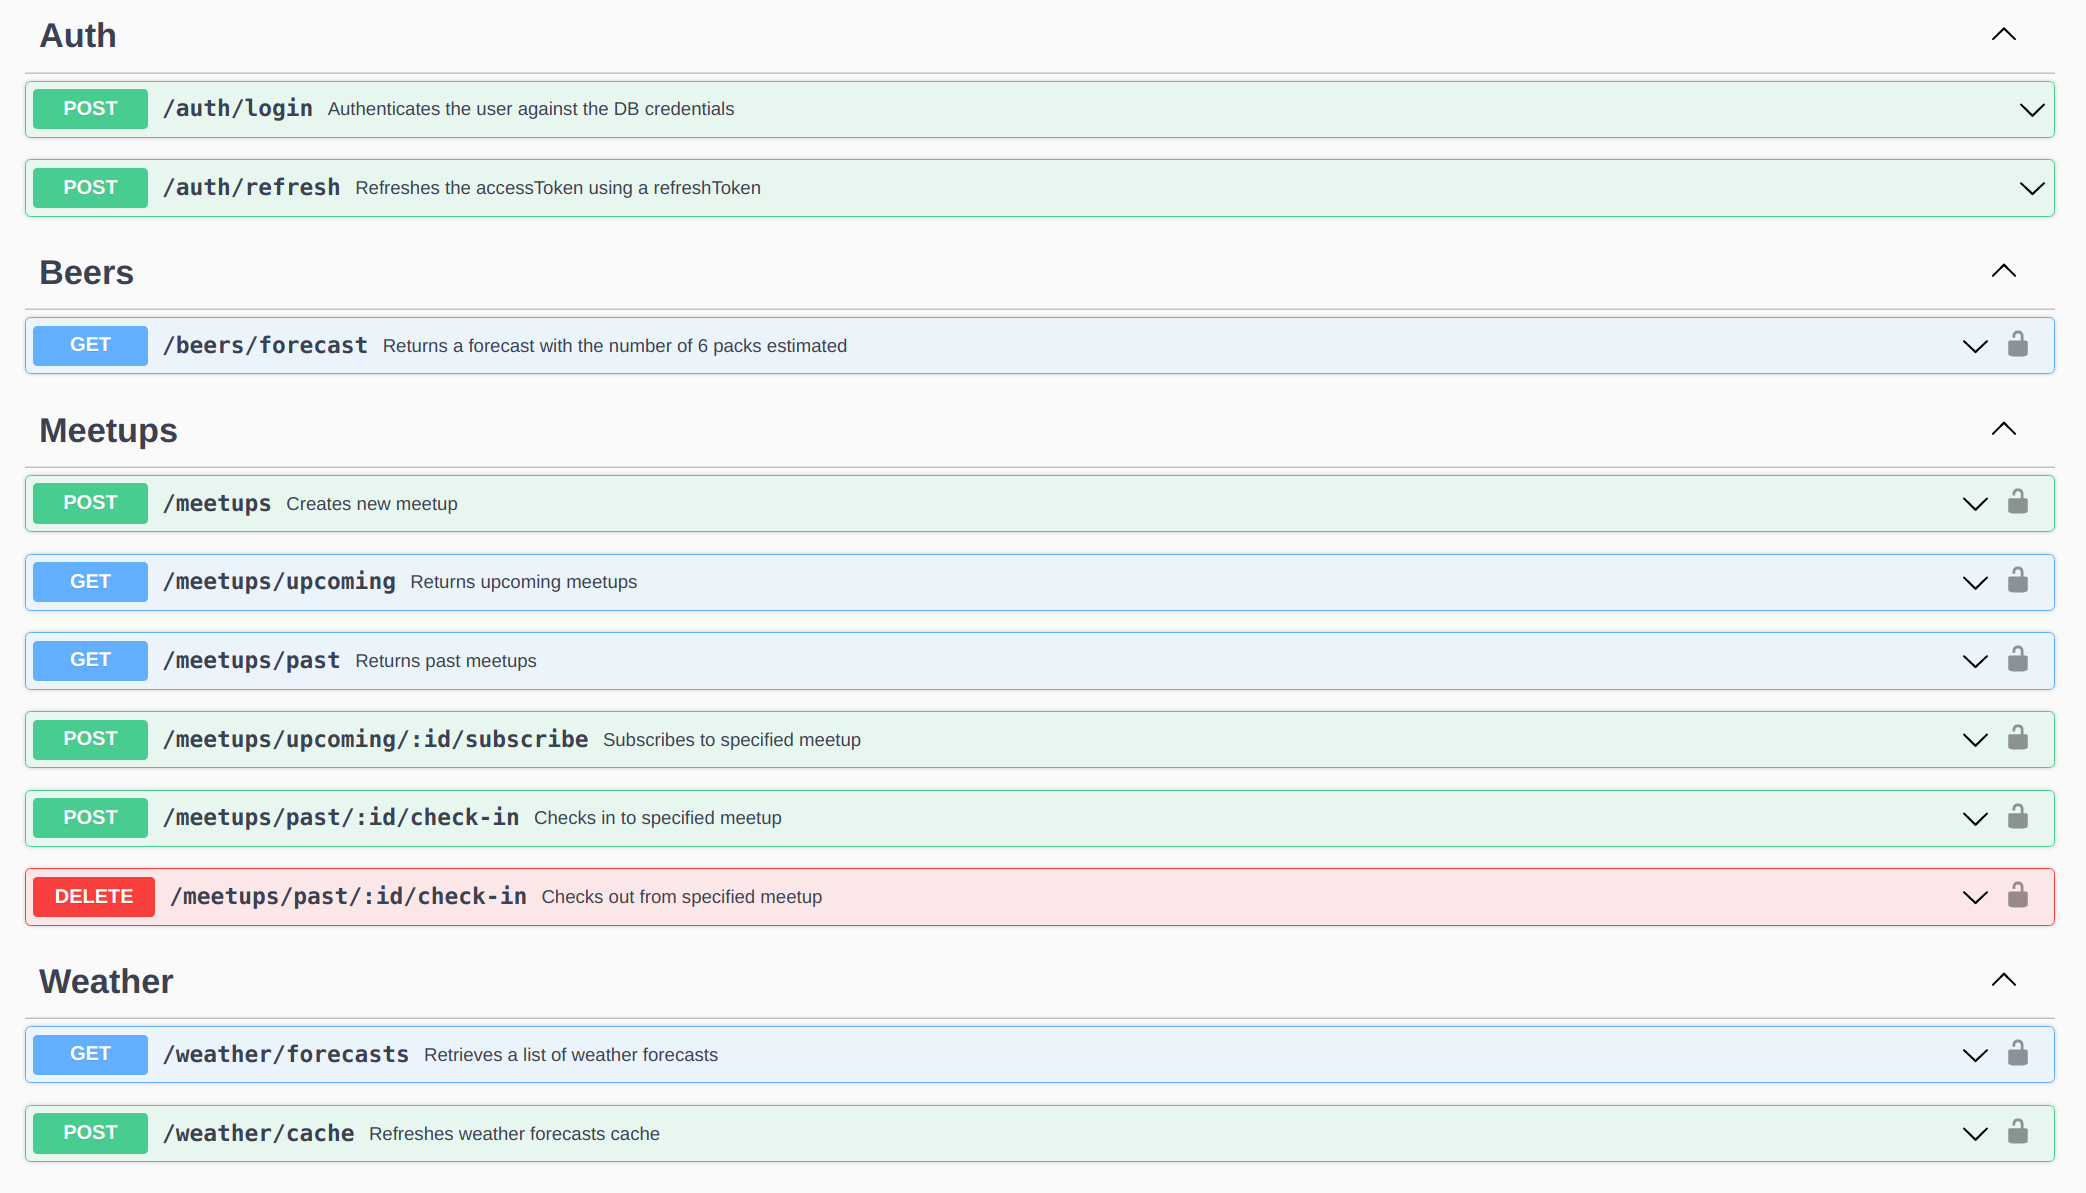
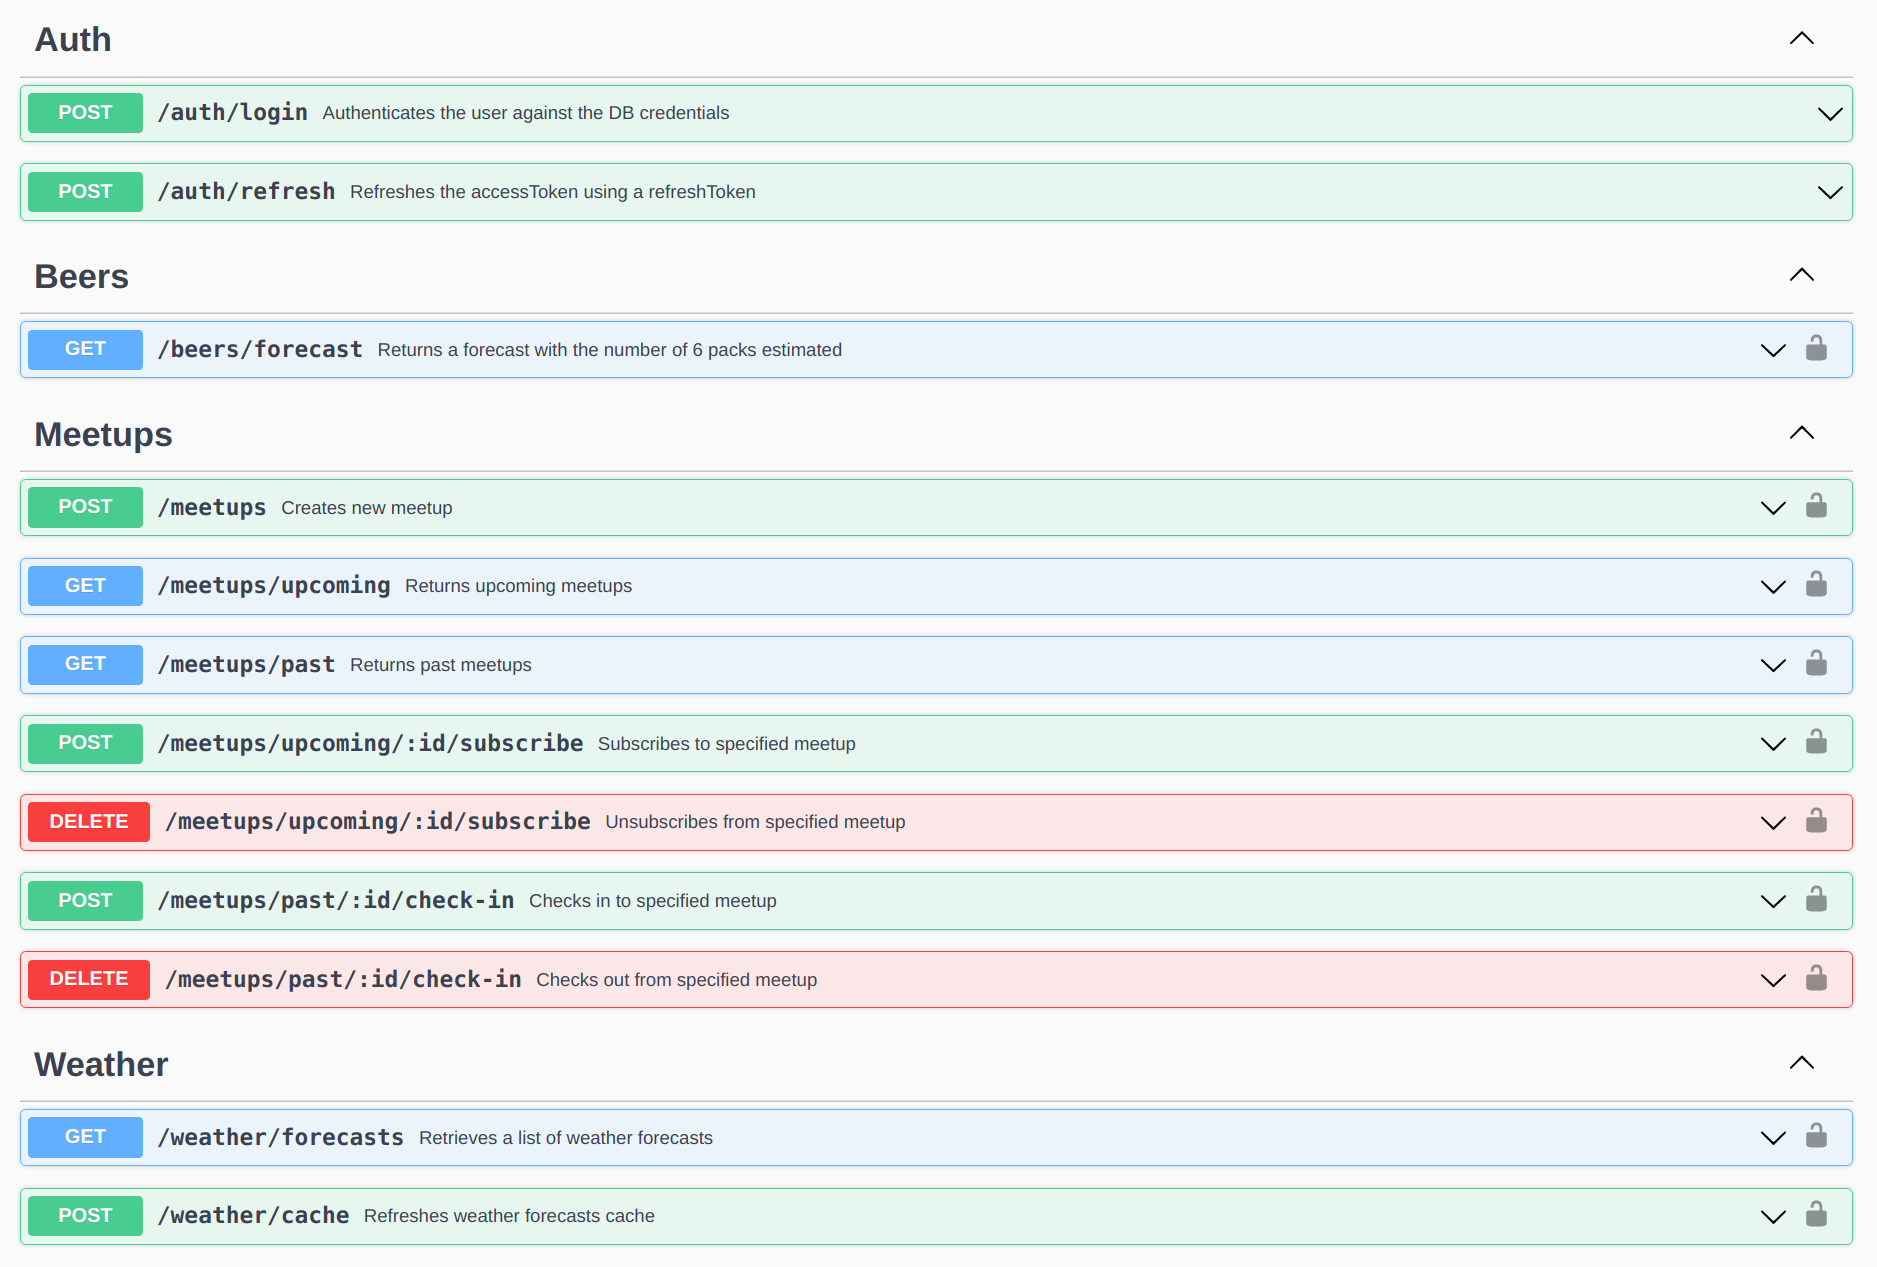
Final changes

Changed region(s): [[0.0, 0.2171, 0.9888, 0.9925], [0.0, 0.0, 0.4017, 0.1861], [0.9579, 0.062, 0.9888, 0.1861]]

diff --git a/backend/src/controllers/meetups-controller.ts b/backend/src/controllers/meetups-controller.ts
@@ -59,12 +59,16 @@ class MeetupsController implements Controller {
       }
       
       const meetupAttributes = req.body as MeetupAttributes;
-      const forecast = await this.weatherService.getForecast(meetupAttributes.date);
+      try {
+        const forecast = await this.weatherService.getForecast(meetupAttributes.date);
       
-      if (forecast) {
-        meetupAttributes.tempInCelsius = forecast.temp;
-        meetupAttributes.estimatedBeerPacks = 
-          this.beerService.getNumBeerPacks(forecast.temp, meetupAttributes.numPeople);
+        if (forecast) {
+          meetupAttributes.tempInCelsius = forecast.temp;
+          meetupAttributes.estimatedBeerPacks = 
+            this.beerService.getNumBeerPacks(forecast.temp, meetupAttributes.numPeople);
+        }
+      } catch(err) {
+        console.log("Weather data not found, creating without forecasts...");
       }
 
       const meetup = await Meetup.create({
@@ -233,21 +237,21 @@ class MeetupsController implements Controller {
   /**
    * @swagger
    * /meetups/upcoming/:id/subscribe:
-   * delete:
-   *   summary: Unsubscribes from specified meetup
-   *   tags:
-   *     - Meetups
-   *   responses:
-   *     '200':
-   *       description: "Unsubscribe successful"
-   *       content:
-   *         application/json:
-   *           schema:
-   *             $ref: '#/components/schemas/Meetup'
-   *     '400':
-   *       description: "Bad request"
-   *     '401':
-   *       description: "Unauthorized"
+   *  delete:
+   *    summary: Unsubscribes from specified meetup
+   *    tags:
+   *      - Meetups
+   *    responses:
+   *      '200':
+   *        description: "Unsubscribe successful"
+   *        content:
+   *          application/json:
+   *            schema:
+   *              $ref: '#/components/schemas/Meetup'
+   *      '400':
+   *        description: "Bad request"
+   *      '401':
+   *        description: "Unauthorized"
    */
   private async unsubscribeFromMeetup(req: Request, res: Response): Promise<void> {
     try {

diff --git a/frontend/src/services/ApiService.ts b/frontend/src/services/ApiService.ts
@@ -9,7 +9,7 @@ export default class ApiService {
     this.apiUrl = process.env.REACT_APP_API_URL;
   }
 
-  public async getWeatherForecasts(jwt?: string): Promise<WeatherForecast[]> {
+  public async getWeatherForecasts(jwt?: string): Promise<WeatherForecast[] | null> {
     const endpointUri = "/weather/forecasts";
 
     const options: RequestInit = {
@@ -18,15 +18,18 @@ export default class ApiService {
         Authorization: "Bearer " + jwt,
       }
     }
-
-    const response = await fetch(`${this.apiUrl}${endpointUri}`, options);
-    const data = await response.json();
     
+    let data: WeatherForecast[];
+    const response = await fetch(`${this.apiUrl}${endpointUri}`, options);
+    if (response.status === 500) {
+      return null;
+    }
+    data = await response.json();
     return data;
   }
 
 
-  public async refreshWeatherCache(jwt?: string): Promise<WeatherForecast[]> {
+  public async refreshWeatherCache(jwt?: string): Promise<WeatherForecast[] | null> {
     const endpointUri = "/weather/cache";
 
     const options: RequestInit = {
@@ -37,6 +40,9 @@ export default class ApiService {
     }
 
     const response = await fetch(`${this.apiUrl}${endpointUri}`, options);
+    if (response.status === 500) {
+      return null;
+    }
     const data = await response.json();
     
     return data;

diff --git a/frontend/src/components/WeatherForecastsList/WeatherForecastsList.tsx b/frontend/src/components/WeatherForecastsList/WeatherForecastsList.tsx
@@ -8,13 +8,18 @@ type WeatherForecastsListProps = {
 }
 
 const WeatherForecastsList = ({ apiService }: WeatherForecastsListProps) =>{
-  const [weatherForecasts, setWeatherForecasts] = useState<WeatherForecast[] | null>([]);
+  const [weatherForecasts, setWeatherForecasts] = useState<WeatherForecast[] | null>(null);
+  const [error, setError] = useState<string>("");
   const [showCacheRefreshedNotification, setShowCacheRefreshedNotification] = useState<boolean>(false);
   const auth = useAuth();
 
   useEffect(() => {
     apiService.getWeatherForecasts(auth && auth.accessToken).then((forecasts) => {
-      setWeatherForecasts(forecasts);
+      if (forecasts) {
+        setWeatherForecasts(forecasts);
+      } else {
+        setError("Could not fetch forecasts");
+      }
     });
   }, []);
   
@@ -52,7 +57,7 @@ const WeatherForecastsList = ({ apiService }: WeatherForecastsListProps) =>{
                   <div><span className="font-bold">Temp: </span>{forecast.temp} °C</div>
               </li>
             })
-          :""}
+          : error}
         </ul>
       </div>
     </>

diff --git a/backend/src/app.ts b/backend/src/app.ts
@@ -17,12 +17,14 @@ class App {
     this.app = express();
     this.port = port;
 
-    this.initializeSwagger();
-    this.initializeControllers(controllers);
     this.initializeMiddlewares();
+    this.initializeControllers(controllers);
   }
 
   private initializeMiddlewares() {
+    // IMPORTANT: always initialize swagger first
+    this.initializeSwagger();
+
     // We're not configuring cors now, but a real app should have it
     this.app.use(cors());
     this.app.use(cookieParser())
@@ -46,7 +48,7 @@ class App {
         openapi: '3.0.0',
         info: {
           title: "Meetups Santander Challenge API",
-          description: "API docs for the Meetups challenge",
+          description: "Docs for the Meetups API",
           version: "1.0.0"
         },
         contact: {

diff --git a/backend/src/controllers/weather-controller.ts b/backend/src/controllers/weather-controller.ts
@@ -50,7 +50,13 @@ class WeatherController implements Controller {
         return;
       }
 
-      const weatherForecasts: WeatherForecast[] = await this.weatherService.getForecasts();
+      let weatherForecasts: WeatherForecast[];
+      try {
+        weatherForecasts = await this.weatherService.getForecasts();
+      } catch(err) {
+        res.status(500).json("Could not fetch weather forecasts");
+        return;
+      }
 
       res.status(200).json(weatherForecasts);
     } catch (err) {

diff --git a/backend/src/services/weather-service.ts b/backend/src/services/weather-service.ts
@@ -33,7 +33,11 @@ export default class WeatherService {
       forecasts = JSON.parse(forecastsBuffer.toString());
     } catch (err) {
       console.log("Cache not found, refreshing...");
-      forecasts = await this.refreshCache();
+      try {
+        forecasts = await this.refreshCache();
+      } catch(err) {
+        throw new Error("Error fetching weather data, is API key ok?")
+      }
     }
     
     return forecasts;

diff --git a/README.MD b/README.MD
@@ -1,4 +1,4 @@
-# Birras - Challenge Santander Tecnología
+# Meetups Challenge - Santander Tecnología
 
 Este proyecto consiste en una aplicación que permite:
 - Como usuario:
@@ -12,6 +12,14 @@ Este proyecto consiste en una aplicación que permite:
   - Crear meetups, especificando nombre, fecha, y cantidad estimada de personas.
   - Obtener, si es posible, una cantidad estimada de cajas de birra necesarias para aprovisionar la meetup.
 
+# Screens de la app
+
+![](./misc/screen_login.png)
+
+![](./misc/screen_admin.png)
+
+![](./misc/screen_home.png)
+
 # Detalles técnicos del proyecto
 
 - La app consiste en un frontend web y un server de backend.
@@ -21,6 +29,20 @@ Este proyecto consiste en una aplicación que permite:
 - La permanencia se logró a través de una base de datos de SQLite, a través del ORM [sequelize](https://sequelize.org/).
 - La autenticación y autorización se lograron utilizando JWT (en el backend se implementaron los endpoints y la lógica para usar tokens de acceso y de refresh; por cuestiones de tiempo en el frontend solo se implementó el uso de tokens de acceso)
 - La API se autodocumenta utilizando SwaggerUI. Corriendo el server localmente, se puede acceder a los docs en `http://localhost:5000/api/docs`.
+- Hay unit tests para la lógica del cálculo de cajas de birra. No se llegaron a implementar 
+tests de integration/e2e.
+
+# Instrucciones para correr el backend
+
+Todo esto debe realizarse dentro del directorio `backend/`.
+
+- Copiar el archivo `.env-example`, renombrar la copia a `.env`, y completar con las variables de entorno correspondientes.
+  - Tener en cuenta que se necesita una API key para Weatherbit, sino los pronósticos del clima no van a estar disponibles en la app.
+- Ejecutar el comando `yarn install` en consola para instalar las dependencias del backend.
+- Para correr las migraciones de la base de datos utilizar el comando `npx sequelize db:migrate`.
+- Para seedear la db utilizar el comando `npx sequelize db:seed:all`. Es indispensable seedear la db, ya que de esta forma se generan los dos usuarios de la app.
+- Ejecutar el comando `yarn start` en consola para correr el proyecto localmente. Por defecto, el server local de backend esta en `http://localhost:5000`.
+- Ejecutar `yarn test` para correr los tests unitarios.
 
 # Instrucciones para correr el frontend
 
@@ -29,16 +51,6 @@ Todo esto debe realizarse dentro del directorio `frontend/`.
 - Copiar el archivo `.env-example`, renombrar la copia a `.env`, y completar con las variables de entorno.correspondientes. Por ejemplo, para correr el proyecto localmente con los valores por default, utilizar `http://localhost:5000/api` como URL base de la API.
 - Ejecutar el comando `yarn install` en consola para instalar las dependencias del frontend.
 - Ejecutar el comando `yarn start` en consola para correr el proyecto localmente. Por defecto, el server local de frontend esta en `http://localhost:3000`.
-
-# Instrucciones para correr el backend
-
-Todo esto debe realizarse dentro del directorio `backend/`.
-
-- Copiar el archivo `.env-example`, renombrar la copia a `.env`, y completar con las variables de entorno correspondientes.
-- Ejecutar el comando `yarn install` en consola para instalar las dependencias del backend.
-- Ejecutar el comando `yarn start` en consola para correr el proyecto localmente. Por defecto, el server local de backend esta en `http://localhost:5000`.
-- Para correr las migraciones de la base de datos utilizar el comando `npx sequelize db:migrate`.
-- Para seedear la db utilizar el comando `npx sequelize db:seed:all`. Es indispensable seedear la db, ya que de esta forma se generan los dos usuarios de la app.
 
 # Utilizando la app
 
@@ -60,4 +72,19 @@ Dado que no hay un CRUD de usuarios implementado, los dos usuarios disponibles s
 
 ![](./misc/api-endpoints.png)
 
-## Cosas que quedaron pendientes/para mejorar
+## Posibles esquemas de CI/CD
+
+Acá hay muchas opciones... yo haría algo parecido a lo siguiente: tener un pipeline por componente del sistema (en este caso sería uno para front y otro para back). Cada pipeline tiene 3 stages: `testing`, `dev`, y `prod`. 
+
+- `testing` corre los tests unitarios (o que no requieran de varios servicios) y se ejecuta con pushes a cualquier branch del repo. 
+- `dev` se ejecuta en pushes a la development branch, deploya recursos en el entorno de desarrollo, y corre tests de integración y e2e. 
+- Finalmente, `prod` se ejecuta con pushes a la main branch, deploya en prod y también corre tests de integration/e2e.
+
+Esto es algo muy general, devops no es mi área de expertise (aunque es interesante).
+
+# Cosas que quedaron pendientes/para mejorar
+- El tema notificaciones hubiese sido interesante verlo. La idea para hacer esto era que fuese en tiempo real, teniendo una conexión stateful con el server (con WebSockets), y pusheando notificaciones al cliente de esa forma. Despues se podría haber implementado algo con la [Notifications API](https://developer.mozilla.org/en-US/docs/Web/API/notification) para mostrarlas a nivel browser. Hay servicios tipo [Pusher](https://pusher.com/) que creo hacen cosas similares.
+- Habría que implementar la lógica para los refresh tokens en el frontend. How solo hay access tokens y, como se guardan en memoria, al expirar o recargar la página hay que volver a autenticarse (los tokens de acceso se guardan en memoria por cuestiones de seguridad, se podrían haber guardado en local storage, por ejemplo, pero no es lo más seguro)
+- Tests! Lo que implementé fueron unos unit tests básicos para la única lógica de negocio de la app (el cálculo de birras), pero faltaron integration y e2e (estuve como 1 hora tratando de correr programáticamente las migraciones en la mock db y desistí). Tests de UI también se podrían agregar, pero no se me ocurrieron casos específicos para esto fuera de smoke tests
+genéricos.
+- Cosas mencionadas en la consigna que no agregué: i11n, lógica de retries, circuit breaker pattern (esto de hecho nunca lo implementé, vi que para Express hay un [middleware](https://www.npmjs.com/package/express-circuit-breaker) que estaría bueno chusmear).
